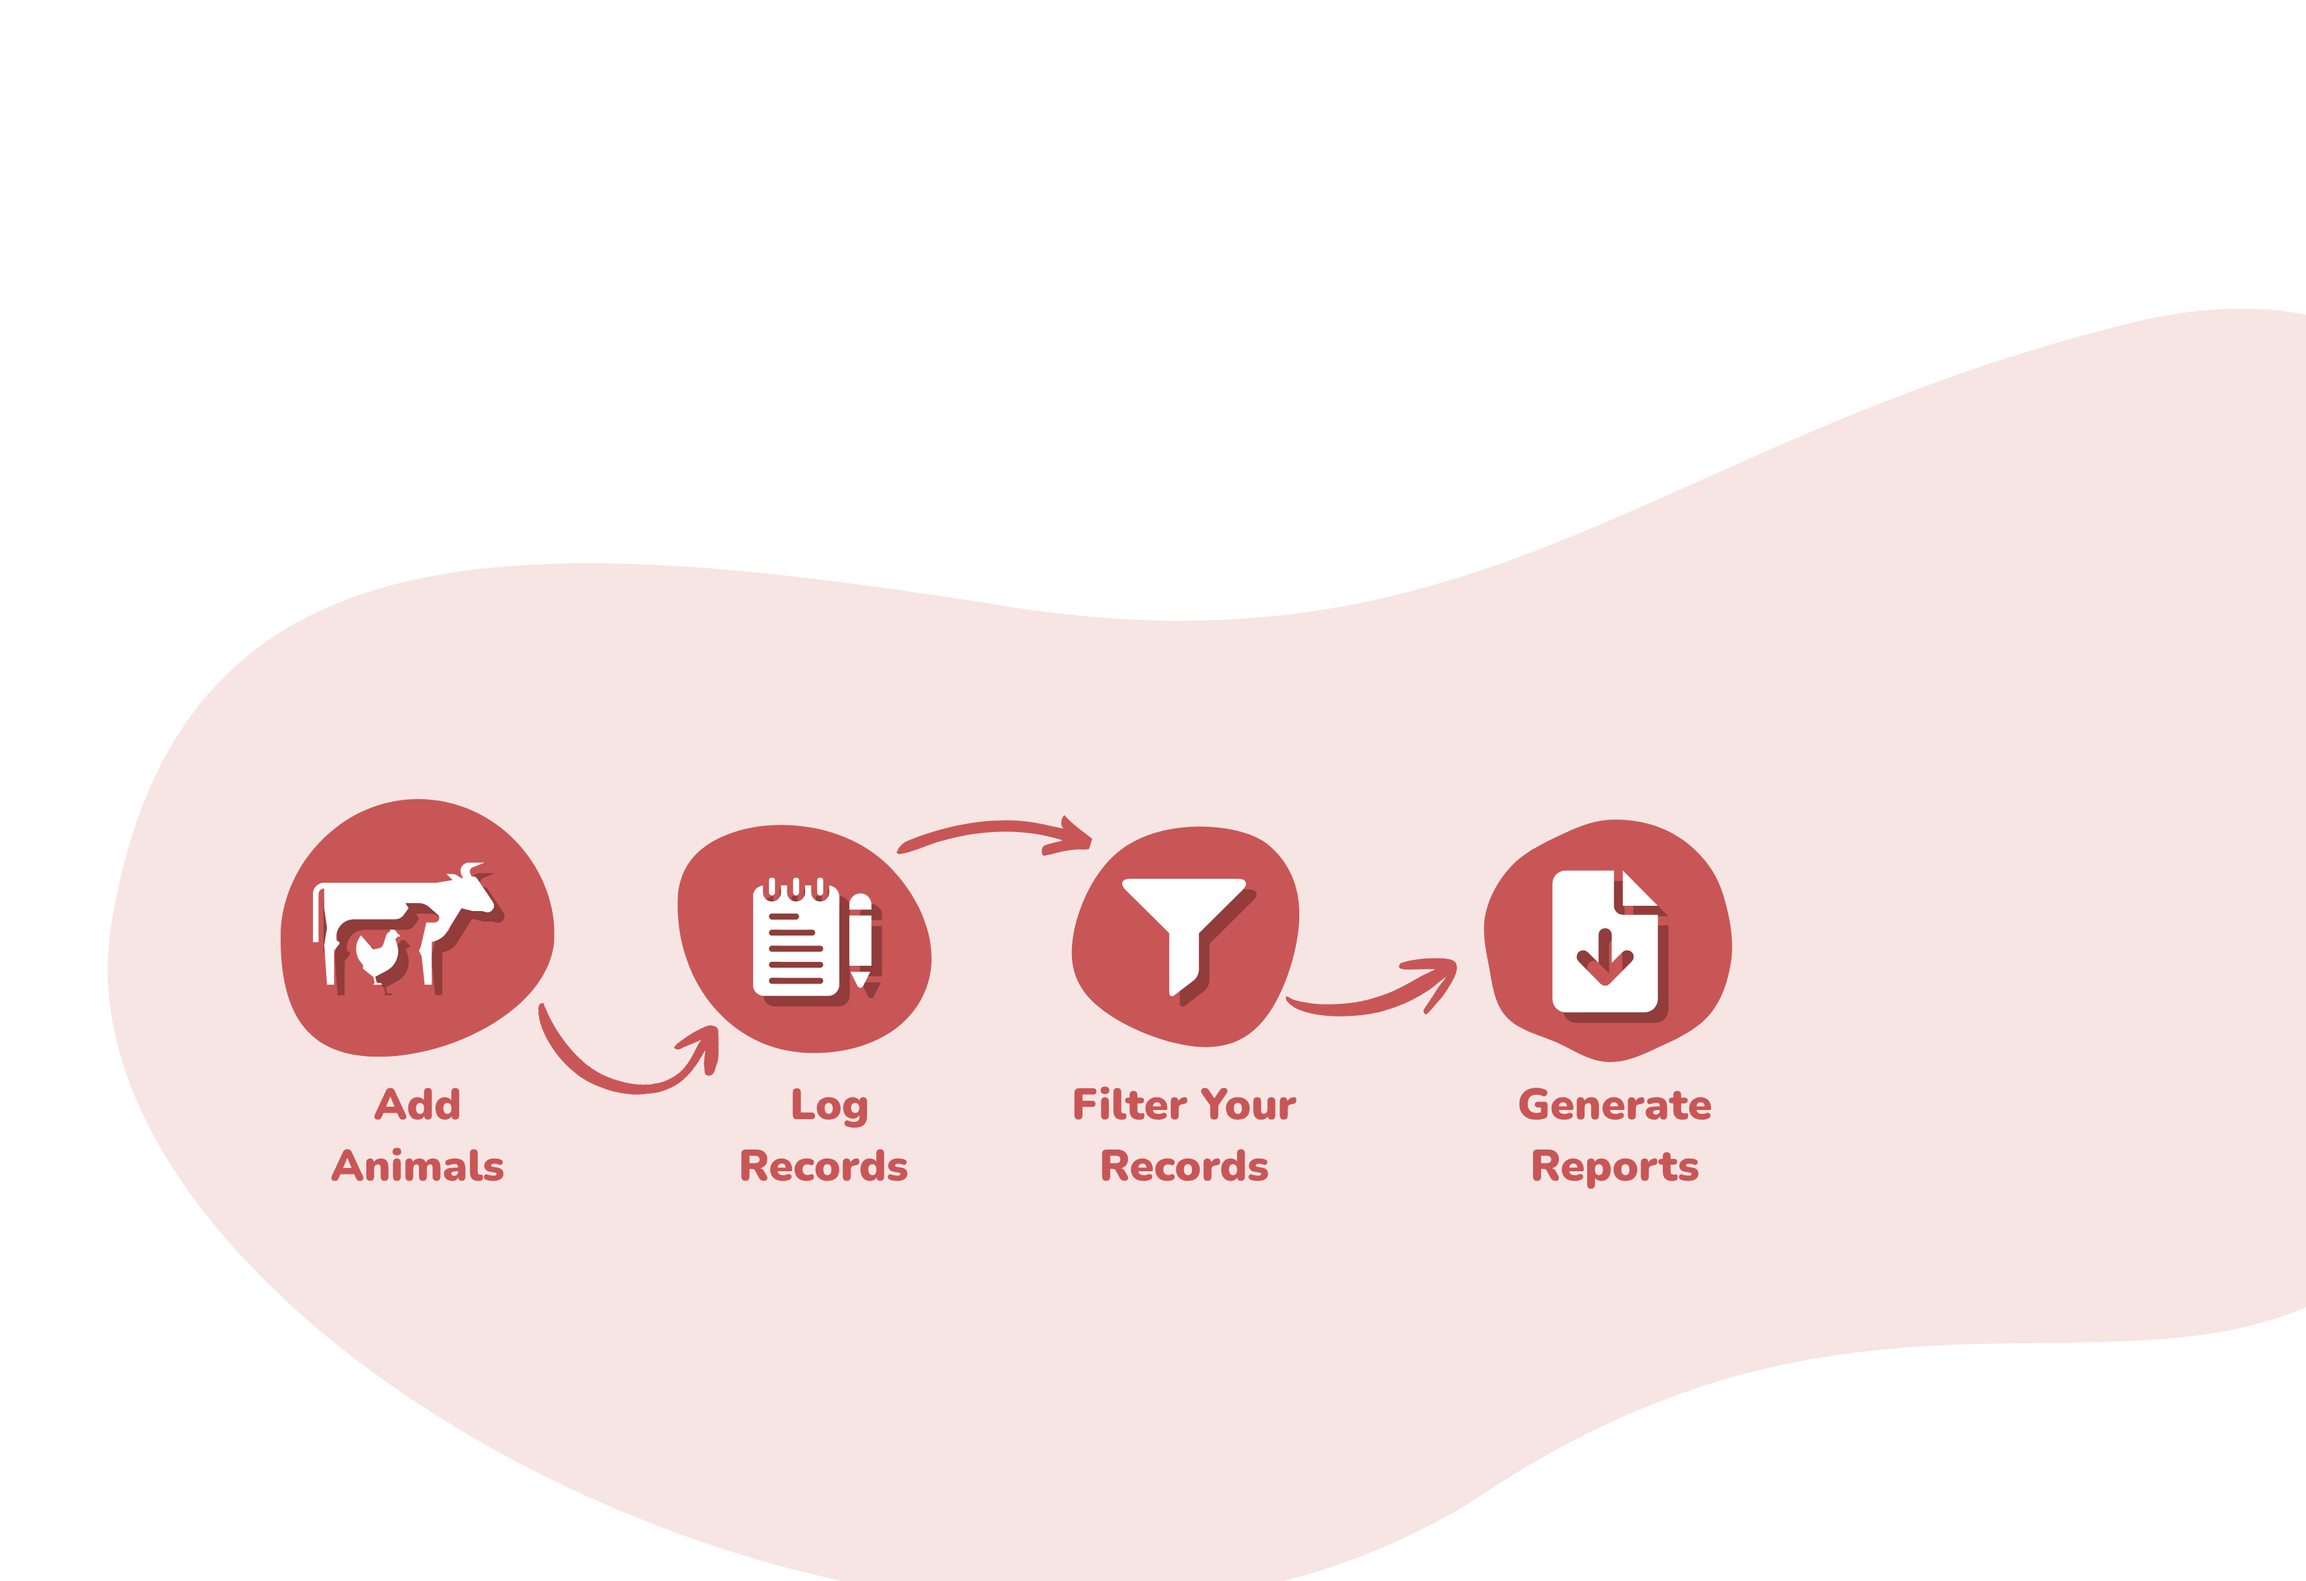
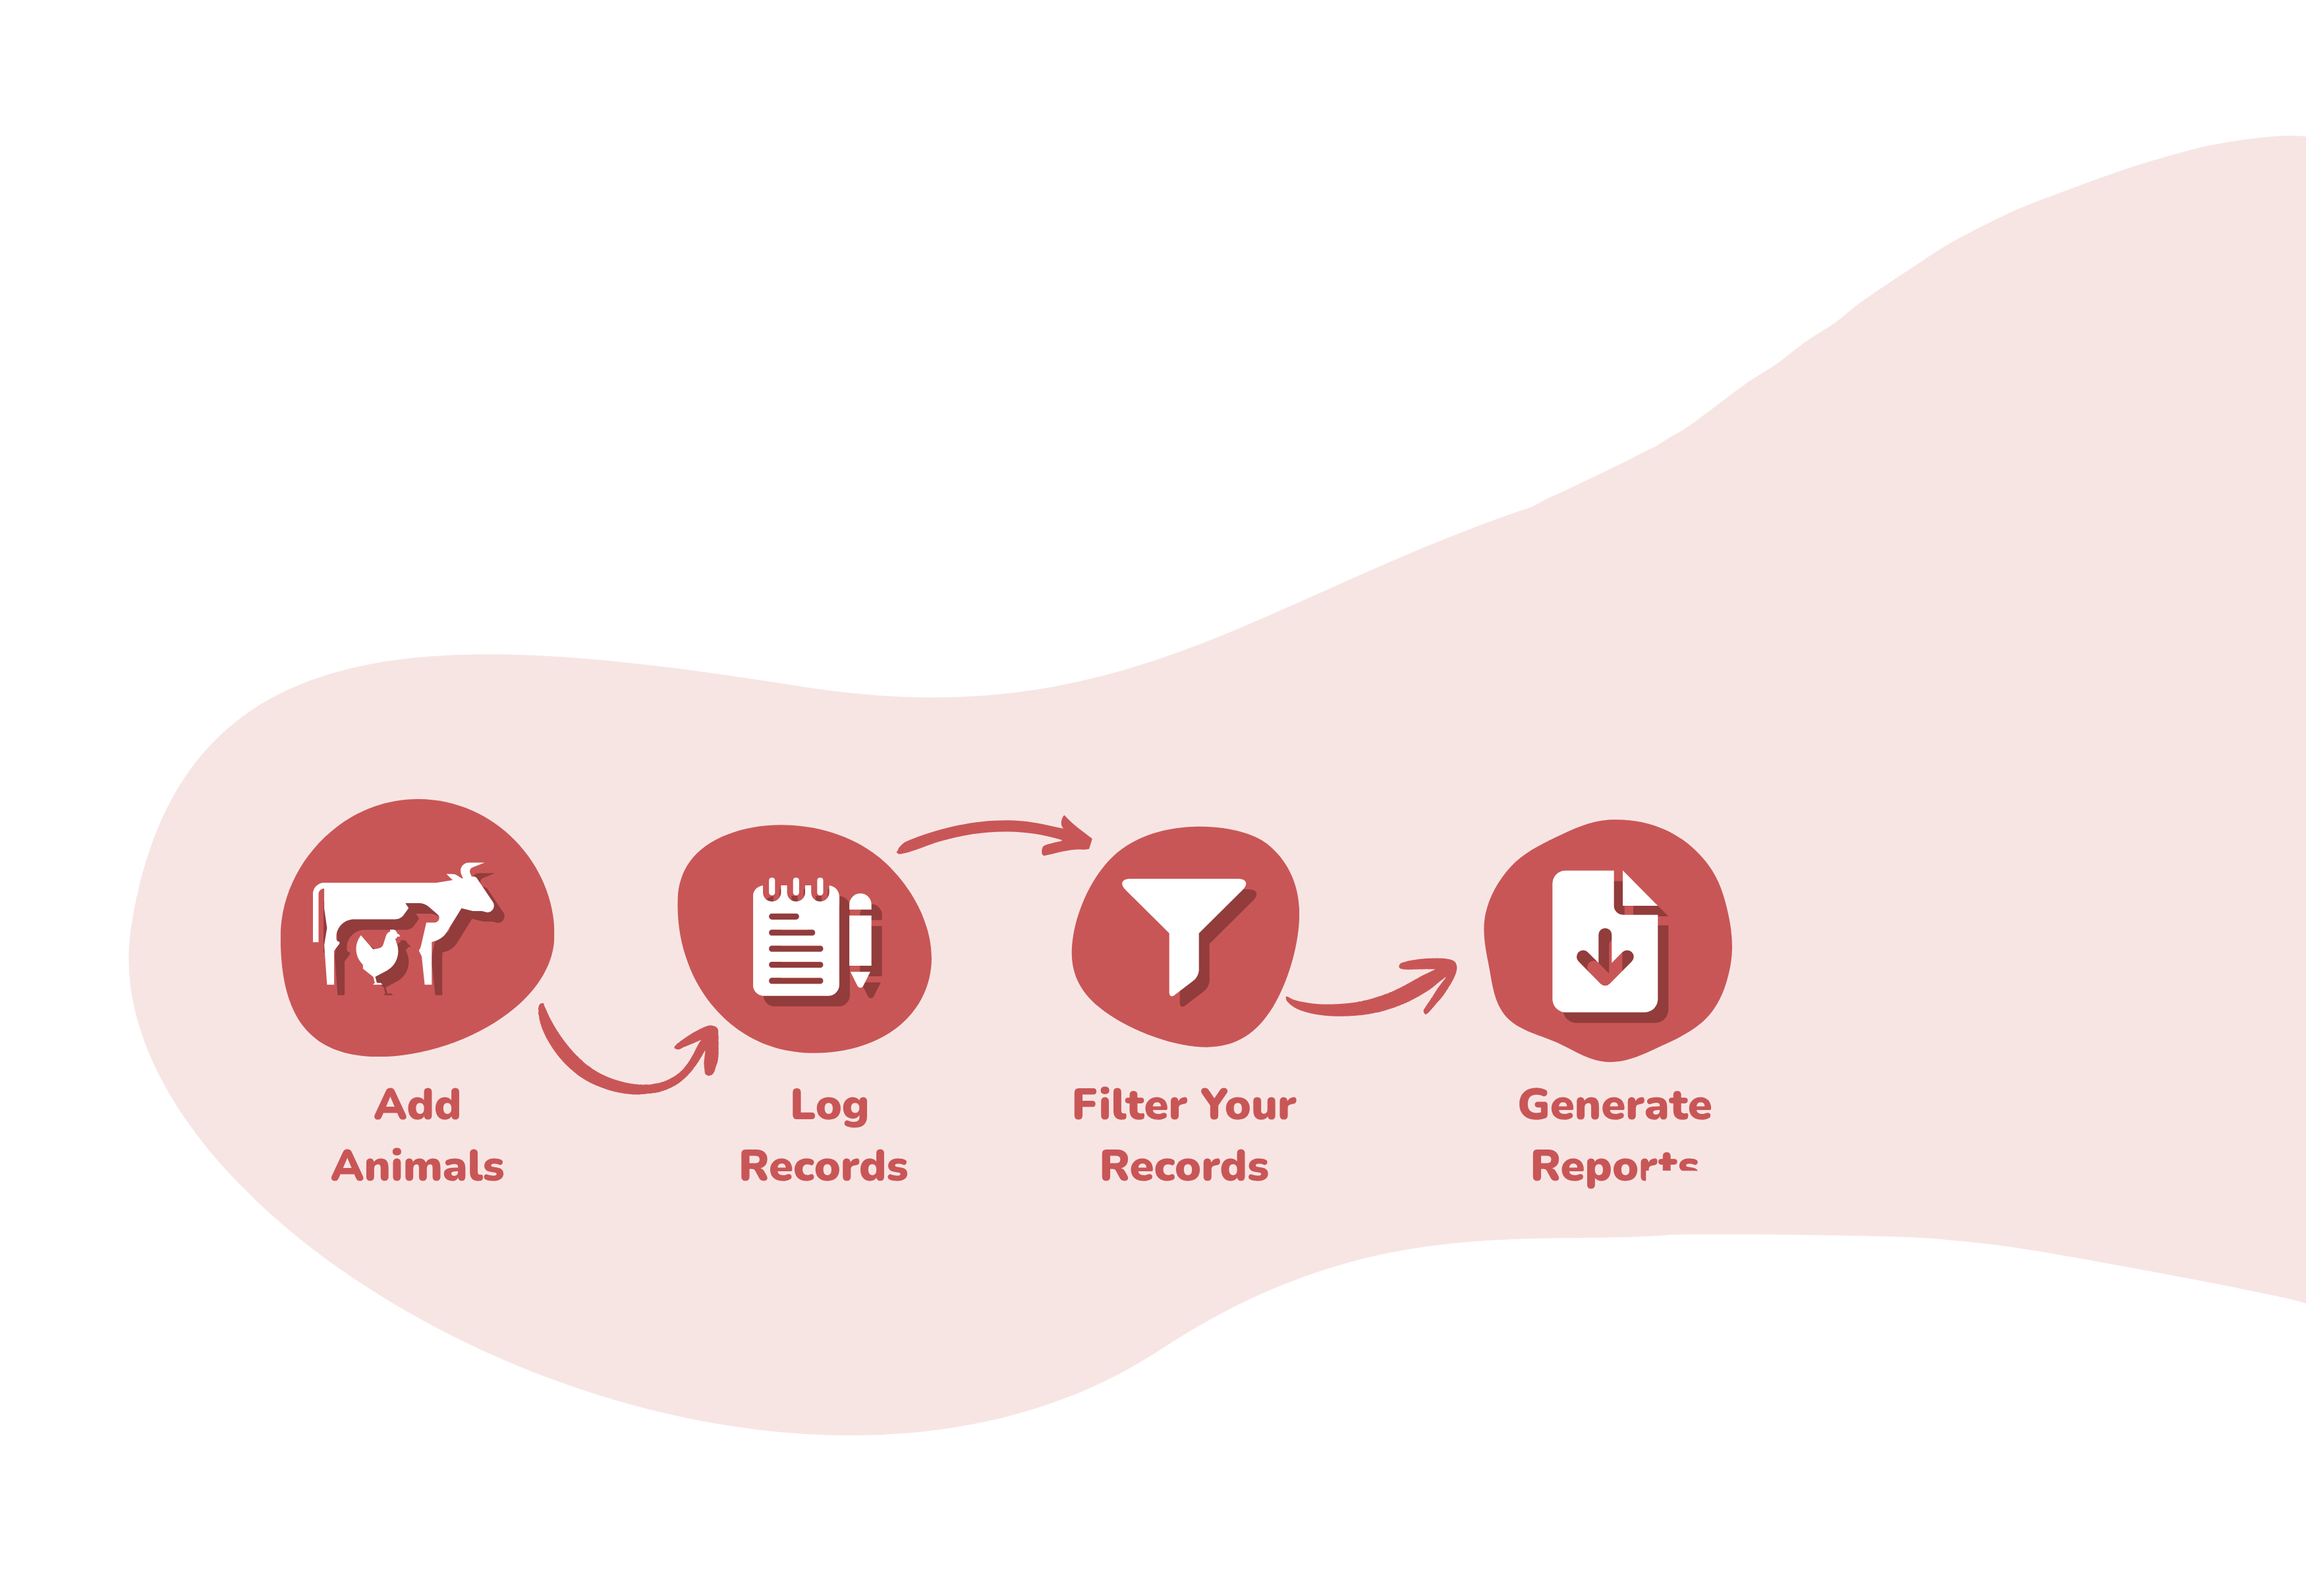
Update USP graphic; retune mobile lift for taller artwork
Swap in the revised artwork (?v=5), whose blob now rises beside the hero
copy — its topmost pixels start 8.6% down the canvas instead of 19.5%.
Desktop keeps the -260px lift (74px clearance under the copy), but the
taller shoulder rode 16px up behind the store badges on phones, so the
mobile lift eases from -50px to -20px, restoring a 14px gap.

Known artwork issue, present in the PNG itself: the trailing "ts" of
"Generate Reports" is clipped by a white shape in the export.

Changed region(s): [[0.0311, 0.5312, 1.0, 1.0], [0.0623, 0.0625, 1.0, 0.5312]]

diff --git a/docs/index.html b/docs/index.html
@@ -13,7 +13,7 @@
   <link rel="icon" type="image/png" sizes="96x96" href="./favicon-96x96.png?v=20260724" />
   <link rel="icon" type="image/png" sizes="192x192" href="./favicon-192x192.png?v=20260724" />
   <link rel="apple-touch-icon" sizes="180x180" href="./apple-touch-icon.png?v=20260724" />
-  <link rel="stylesheet" href="./styles.css?v=20260817q" />
+  <link rel="stylesheet" href="./styles.css?v=20260817r" />
 </head>
 <body>
   <header class="site-header">
@@ -47,7 +47,7 @@
       </div>
 
       <figure class="hero-usp">
-        <img src="./images/usp-graphic.png?v=4" alt="How LivestockBook works: add animals, log records, filter your records, generate reports" loading="eager" />
+        <img src="./images/usp-graphic.png?v=5" alt="How LivestockBook works: add animals, log records, filter your records, generate reports" loading="eager" />
       </figure>
     </section>
 

diff --git a/docs/styles.css b/docs/styles.css
@@ -922,7 +922,7 @@ h2,
   /* Less lift than desktop: stacked full-bleed puts the blob's high right
      shoulder directly under the store badges. */
   .hero-usp {
-    margin-top: -50px;
+    margin-top: -20px;
     padding-left: 0;
   }
 
